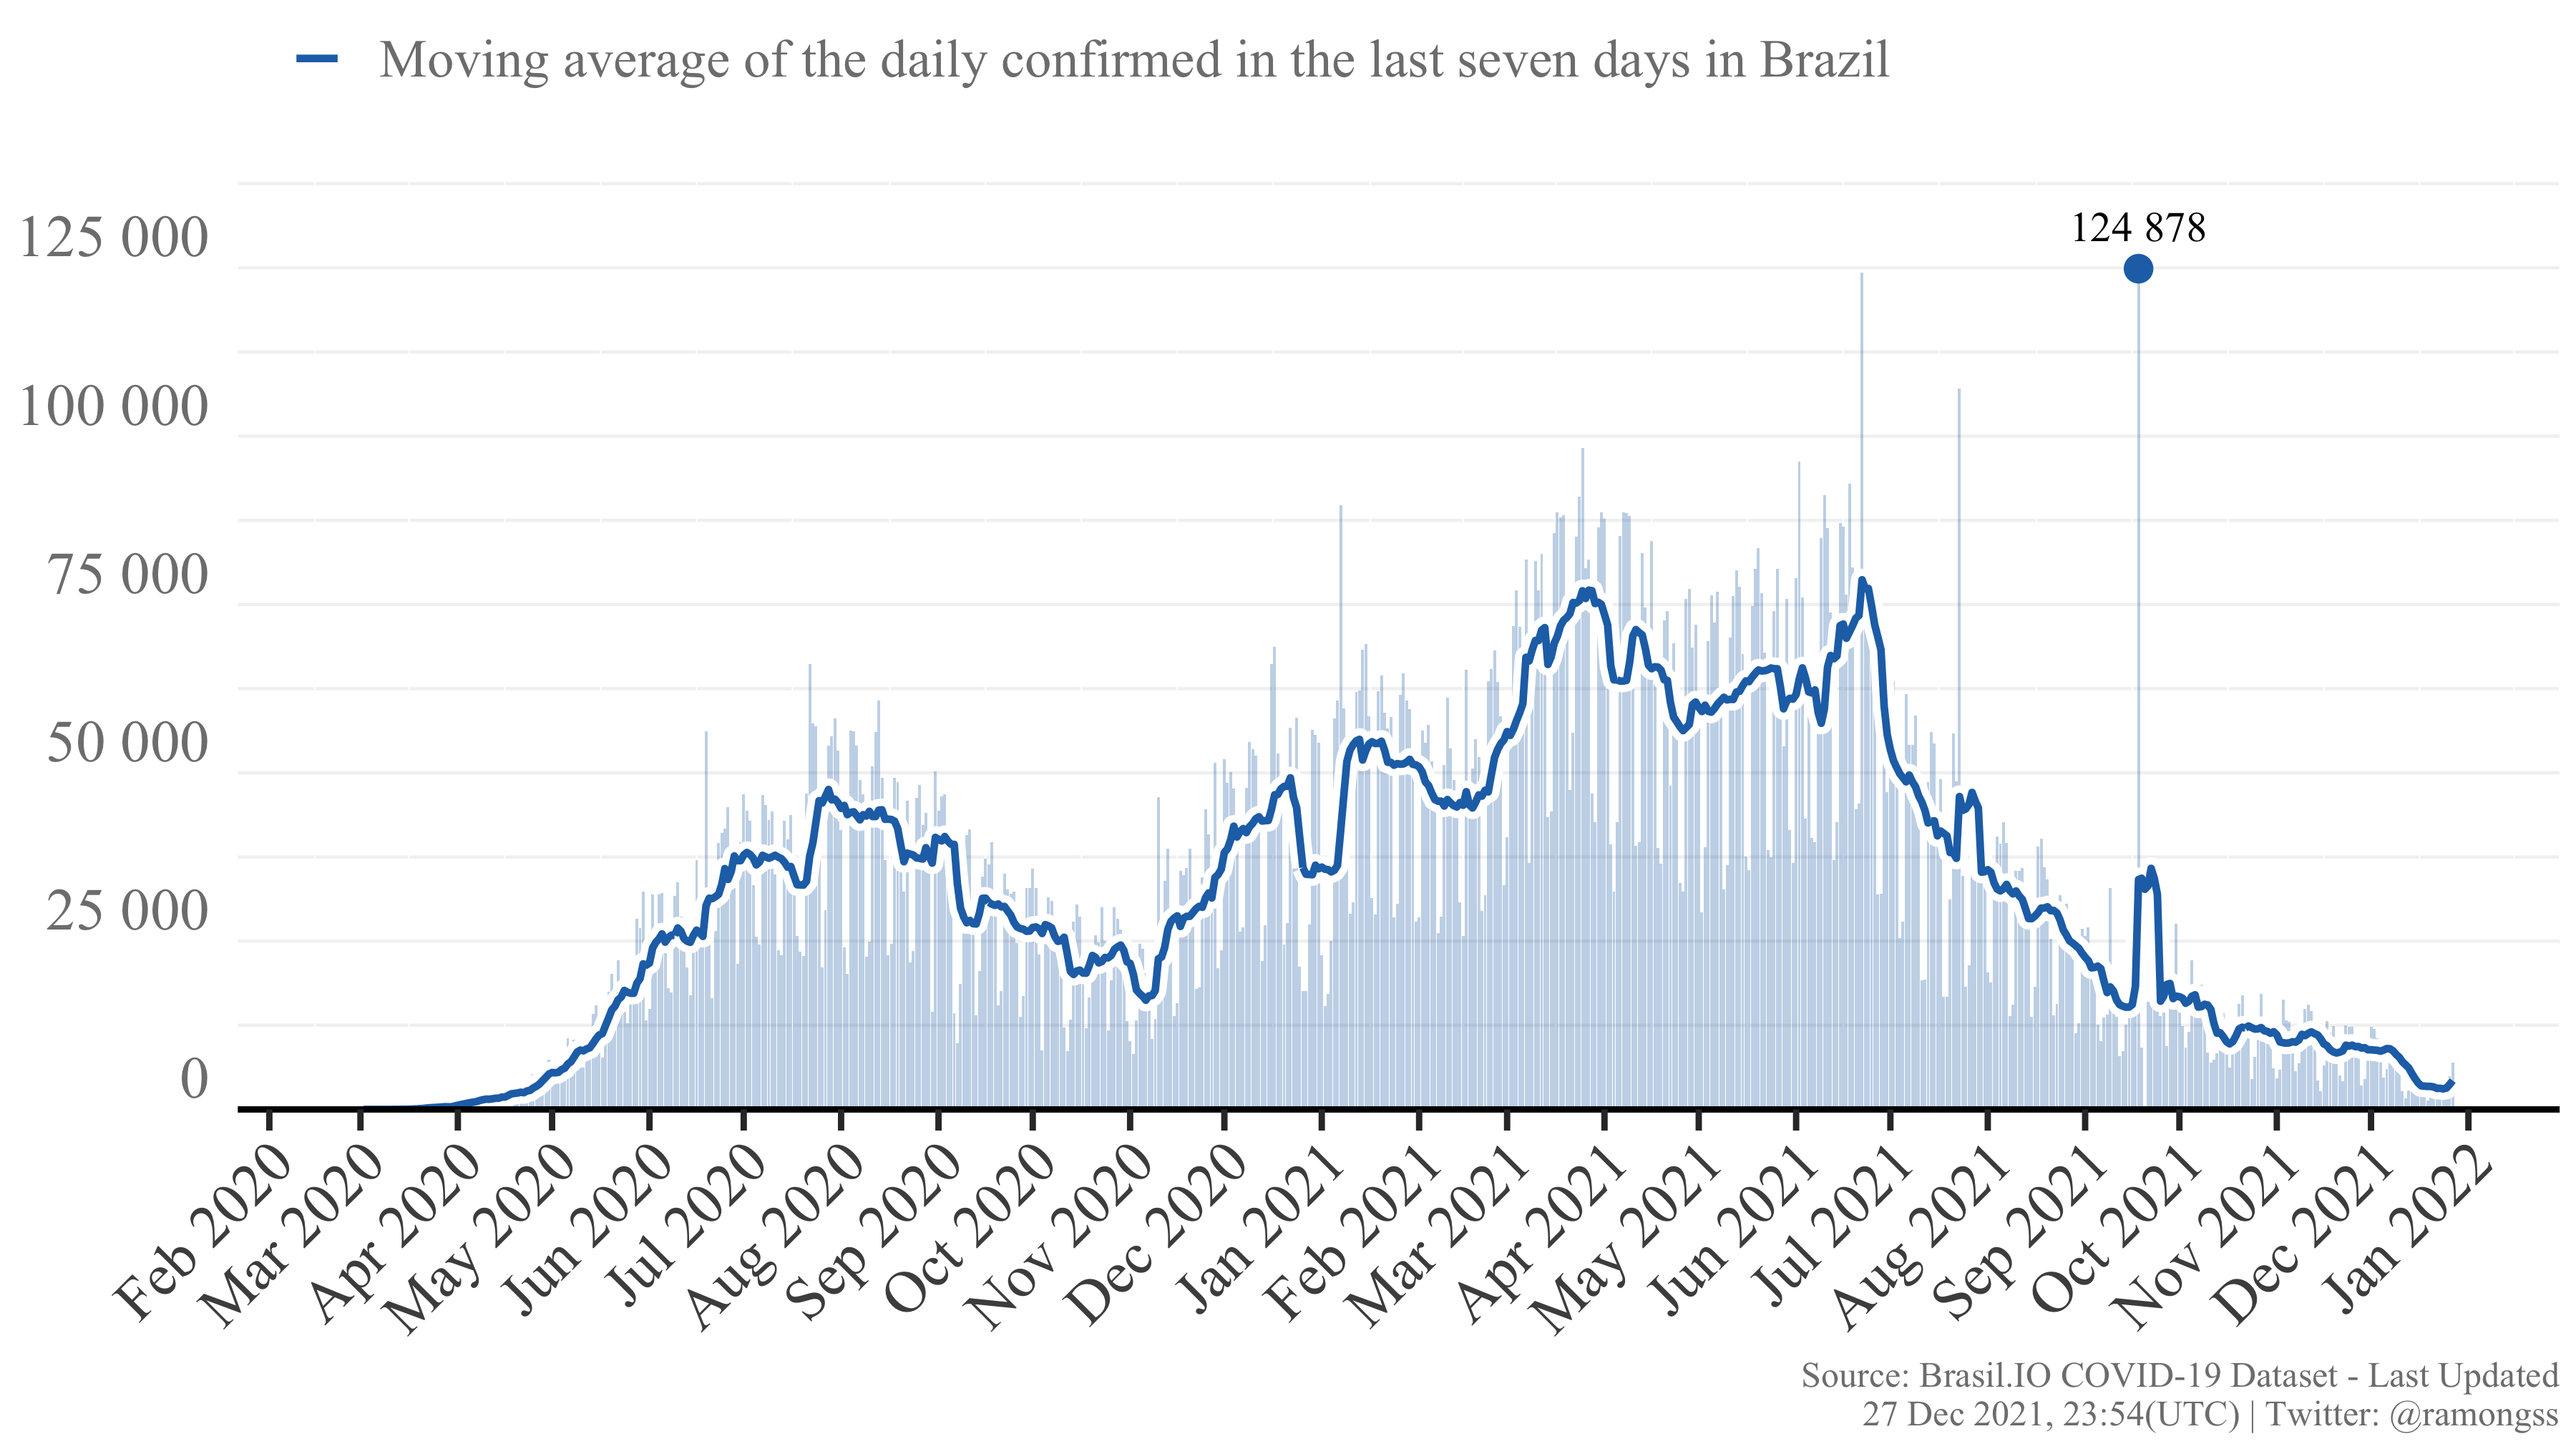
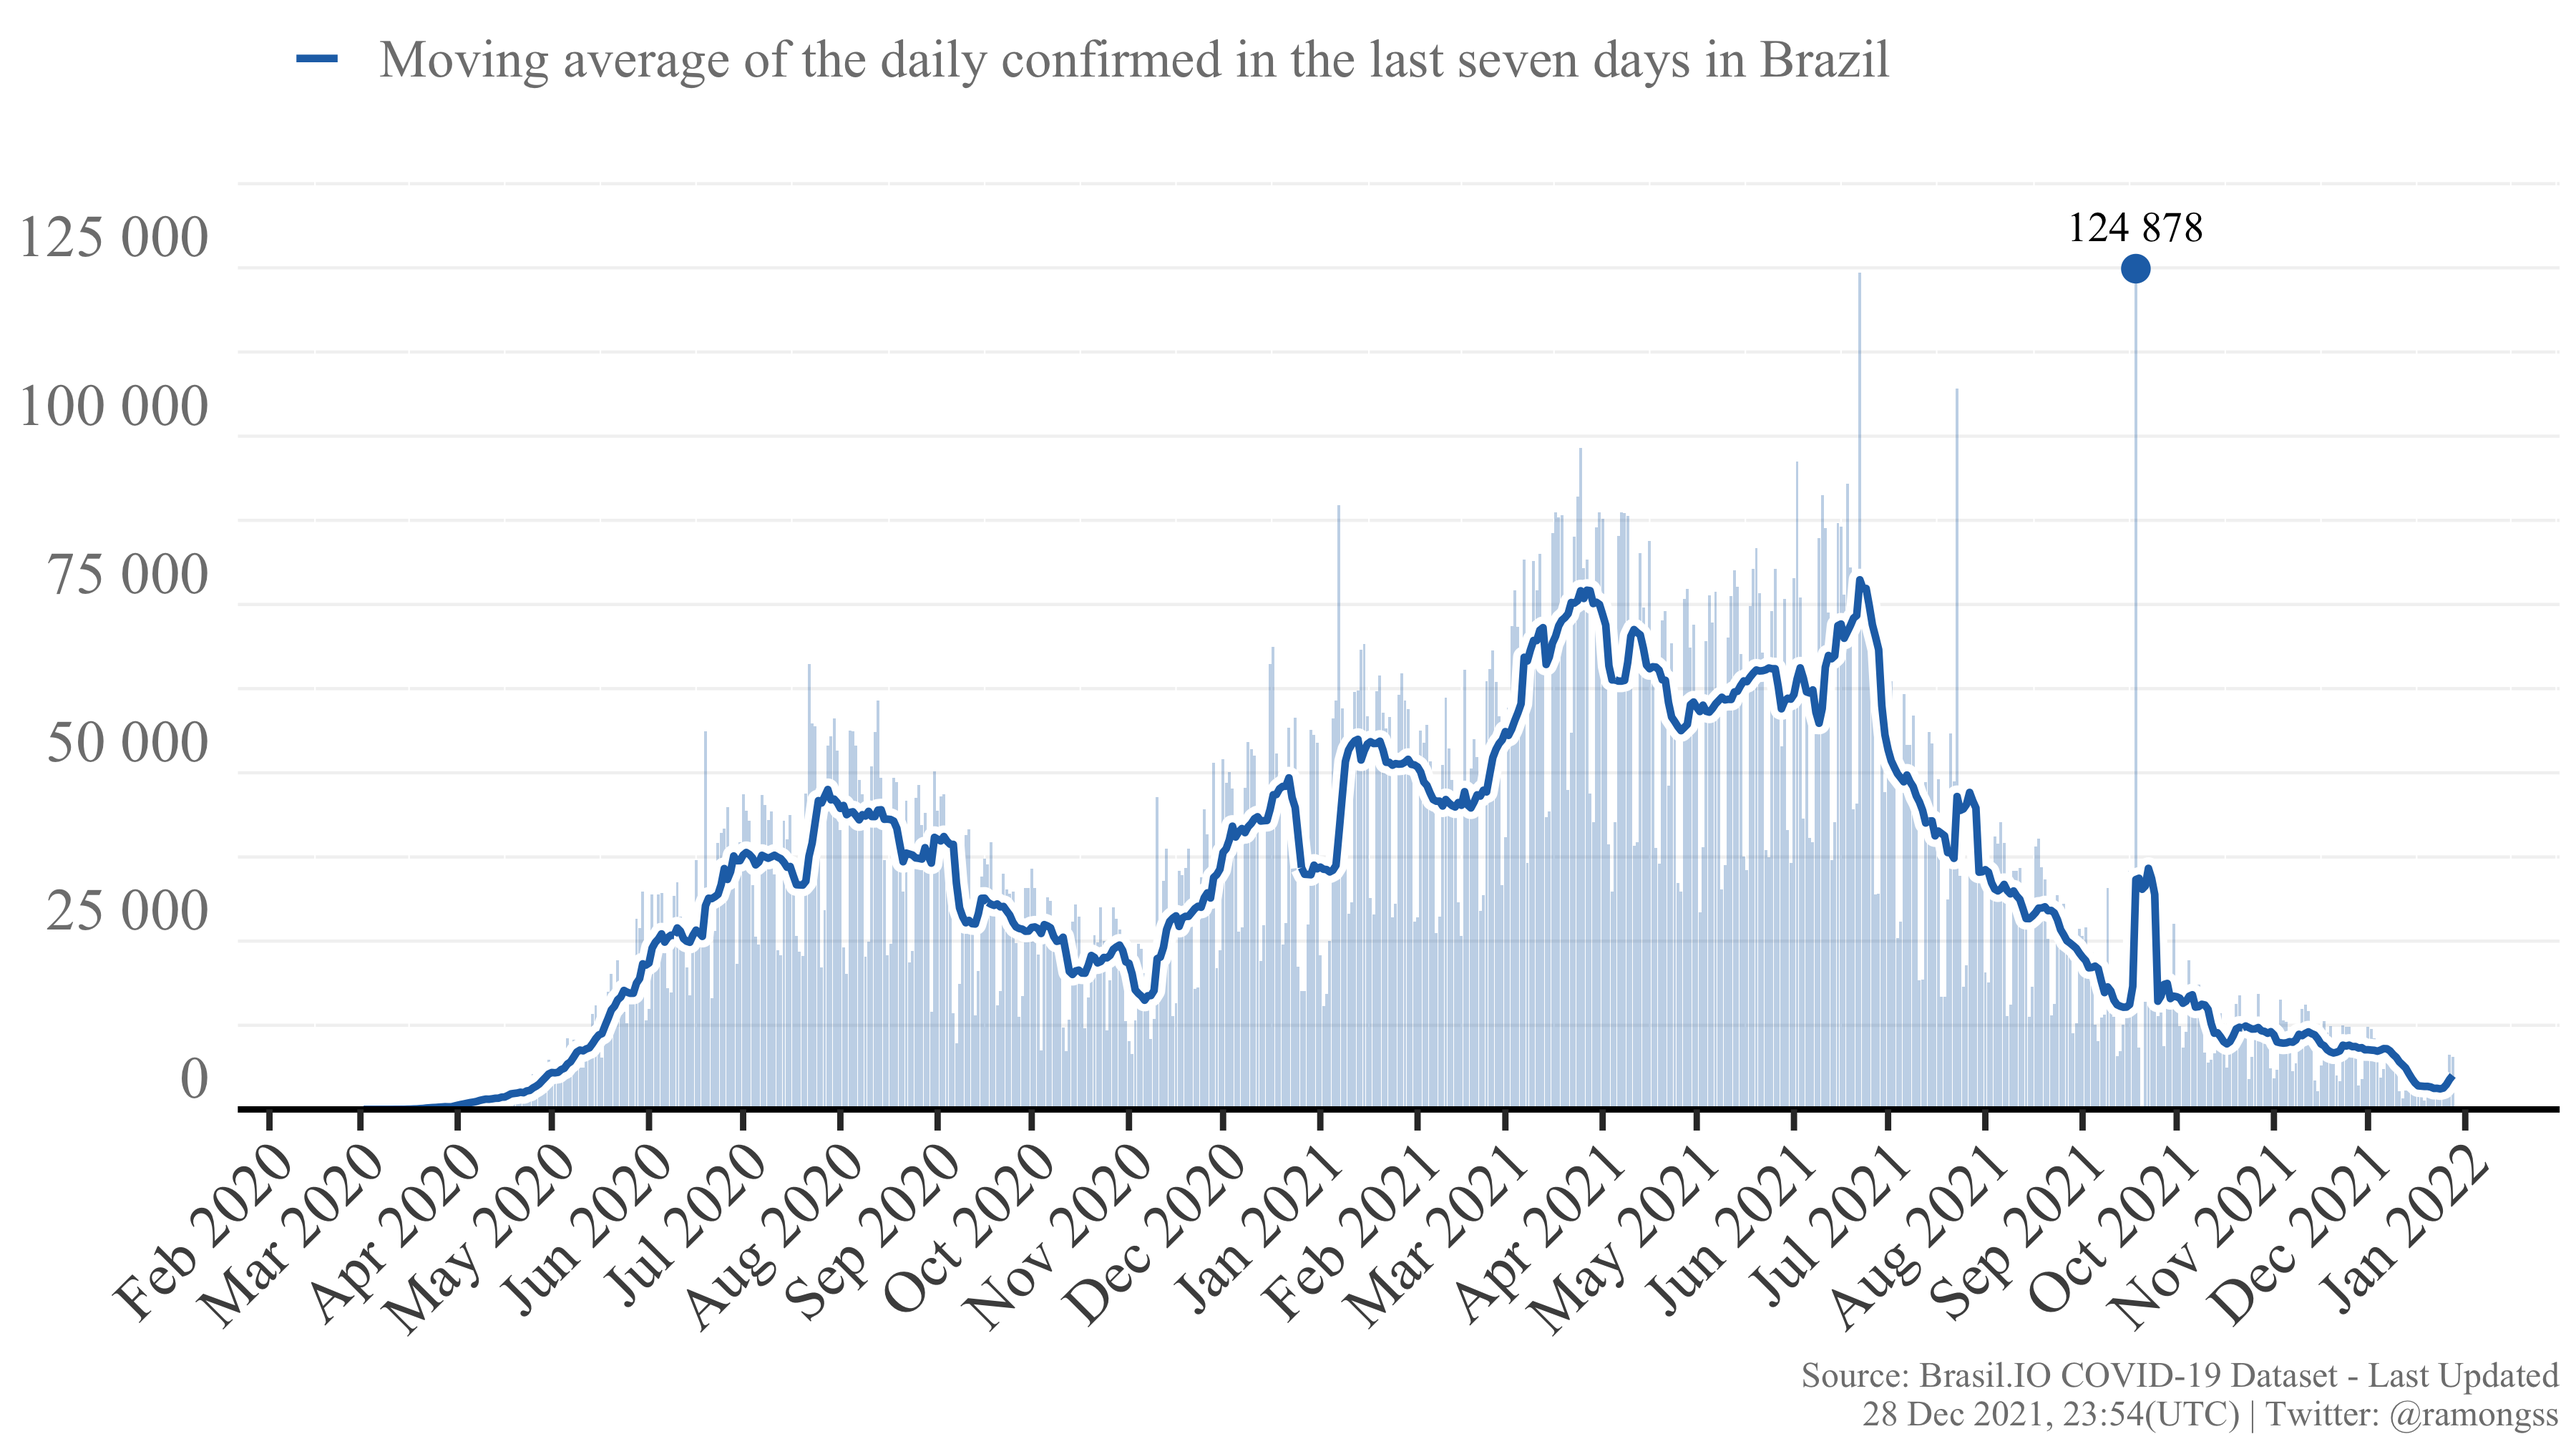
Re-build README.Rmd

diff --git a/README.md b/README.md
@@ -27,8 +27,8 @@ download_brasilio_table <- function(dataset = "covid19", table_name){
 
 ## COVID-19 Confirmed cases
 
-Currently, Brazil has a total of **22,250,210** confirmed cases at **27
-Dec, 2021**, with **6,909** new confirmed cases. The daily maximum
+Currently, Brazil has a total of **22,259,270** confirmed cases at **28
+Dec, 2021**, with **7,859** new confirmed cases. The daily maximum
 incidence was **124,878** confirmed cases at **18 Sep, 2021**. Here
 follows the Figure showing the confirmed case incidence as the bars, and
 the line as the moving average of the last 7 days.
@@ -37,11 +37,11 @@ the line as the moving average of the last 7 days.
 
 ## COVID-19 Deaths
 
-Currently, Brazil has a total of **618,797** deaths at **27 Dec, 2021**,
-with **64** new deaths. The daily maximum deaths incidence was **4,148**
-deaths at **08 Apr, 2021**. Here follows the Figure showing the deaths
-incidence as the bars, and the line as the moving average of the last 7
-days.
+Currently, Brazil has a total of **618,978** deaths at **28 Dec, 2021**,
+with **165** new deaths. The daily maximum deaths incidence was
+**4,148** deaths at **08 Apr, 2021**. Here follows the Figure showing
+the deaths incidence as the bars, and the line as the moving average of
+the last 7 days.
 
 ![COVID-19 Deaths](figures/deaths.png)
 
@@ -49,4 +49,4 @@ days.
 
 This page is daily updated automatically using Github Actions.
 
-*Last update: 27 Dec 2021, 23:54 (UTC).*
+*Last update: 28 Dec 2021, 23:54 (UTC).*
